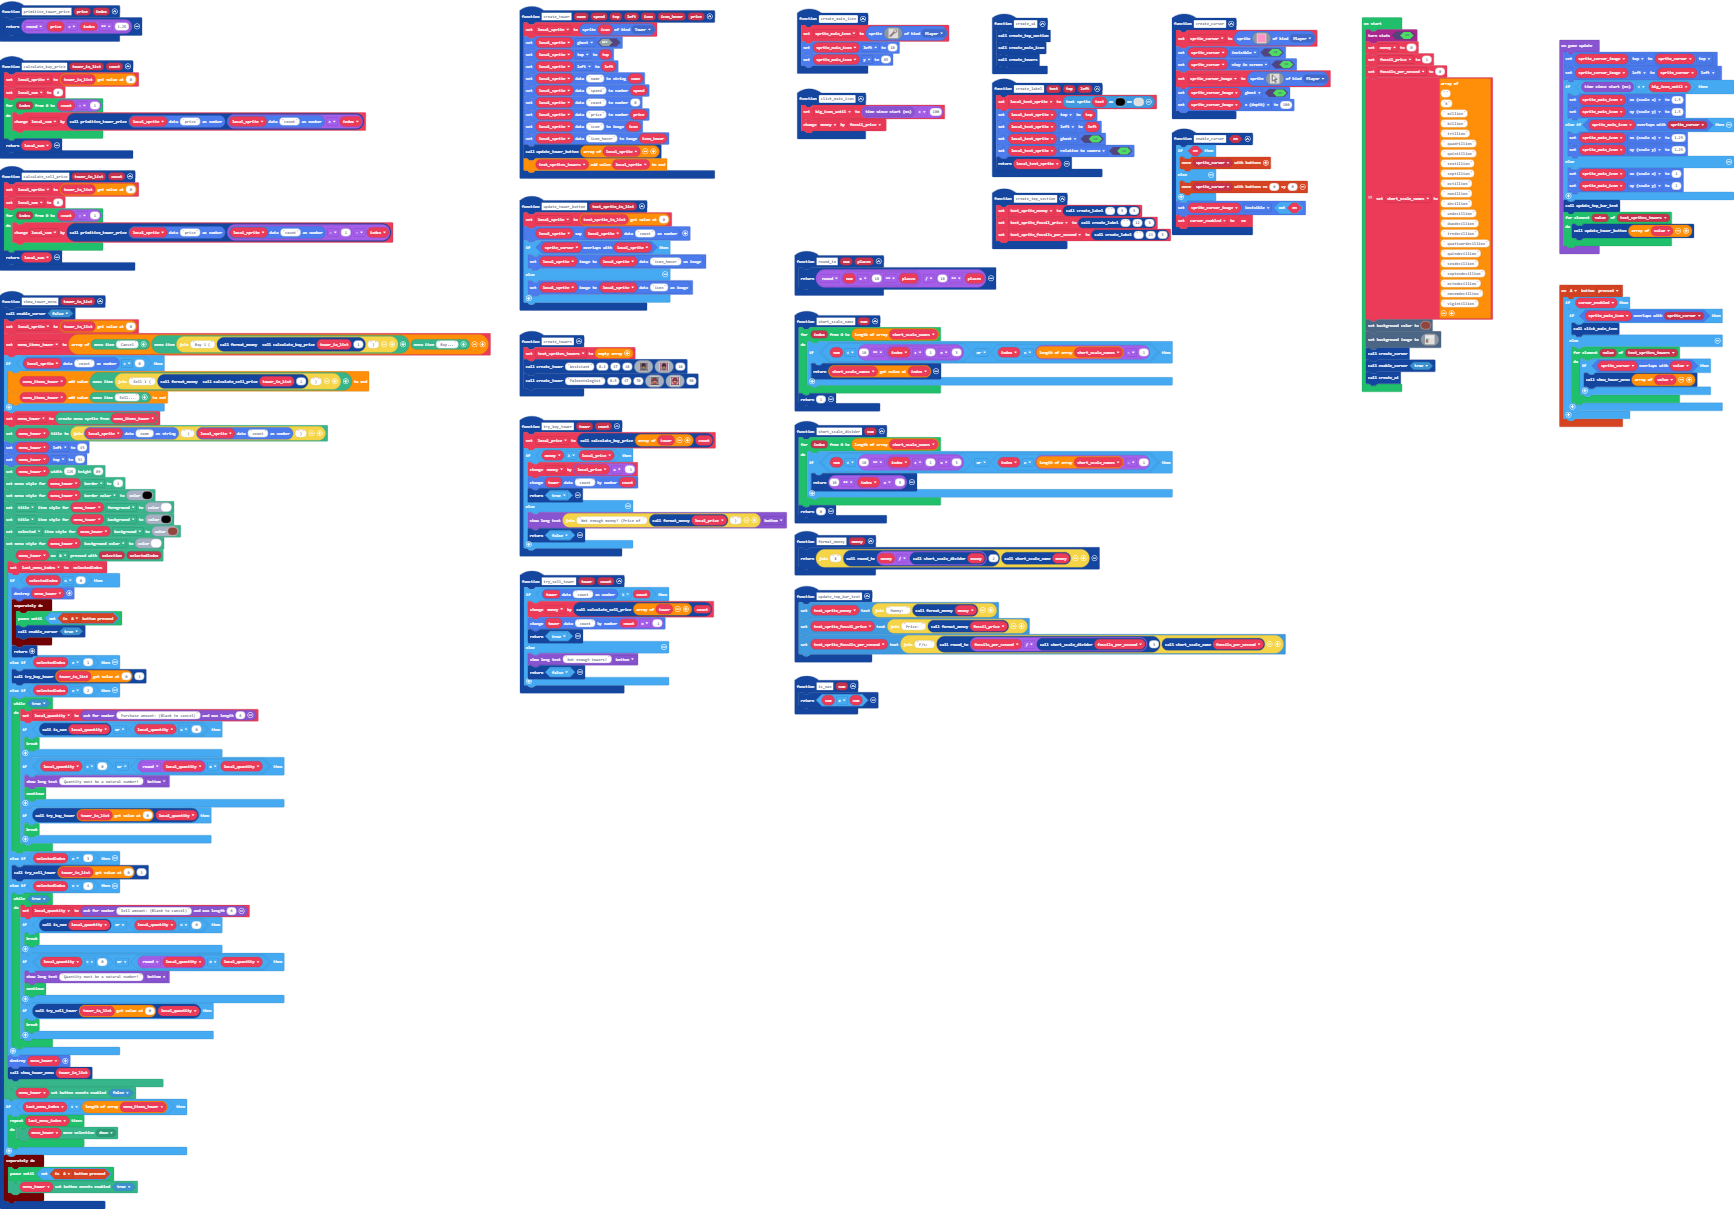
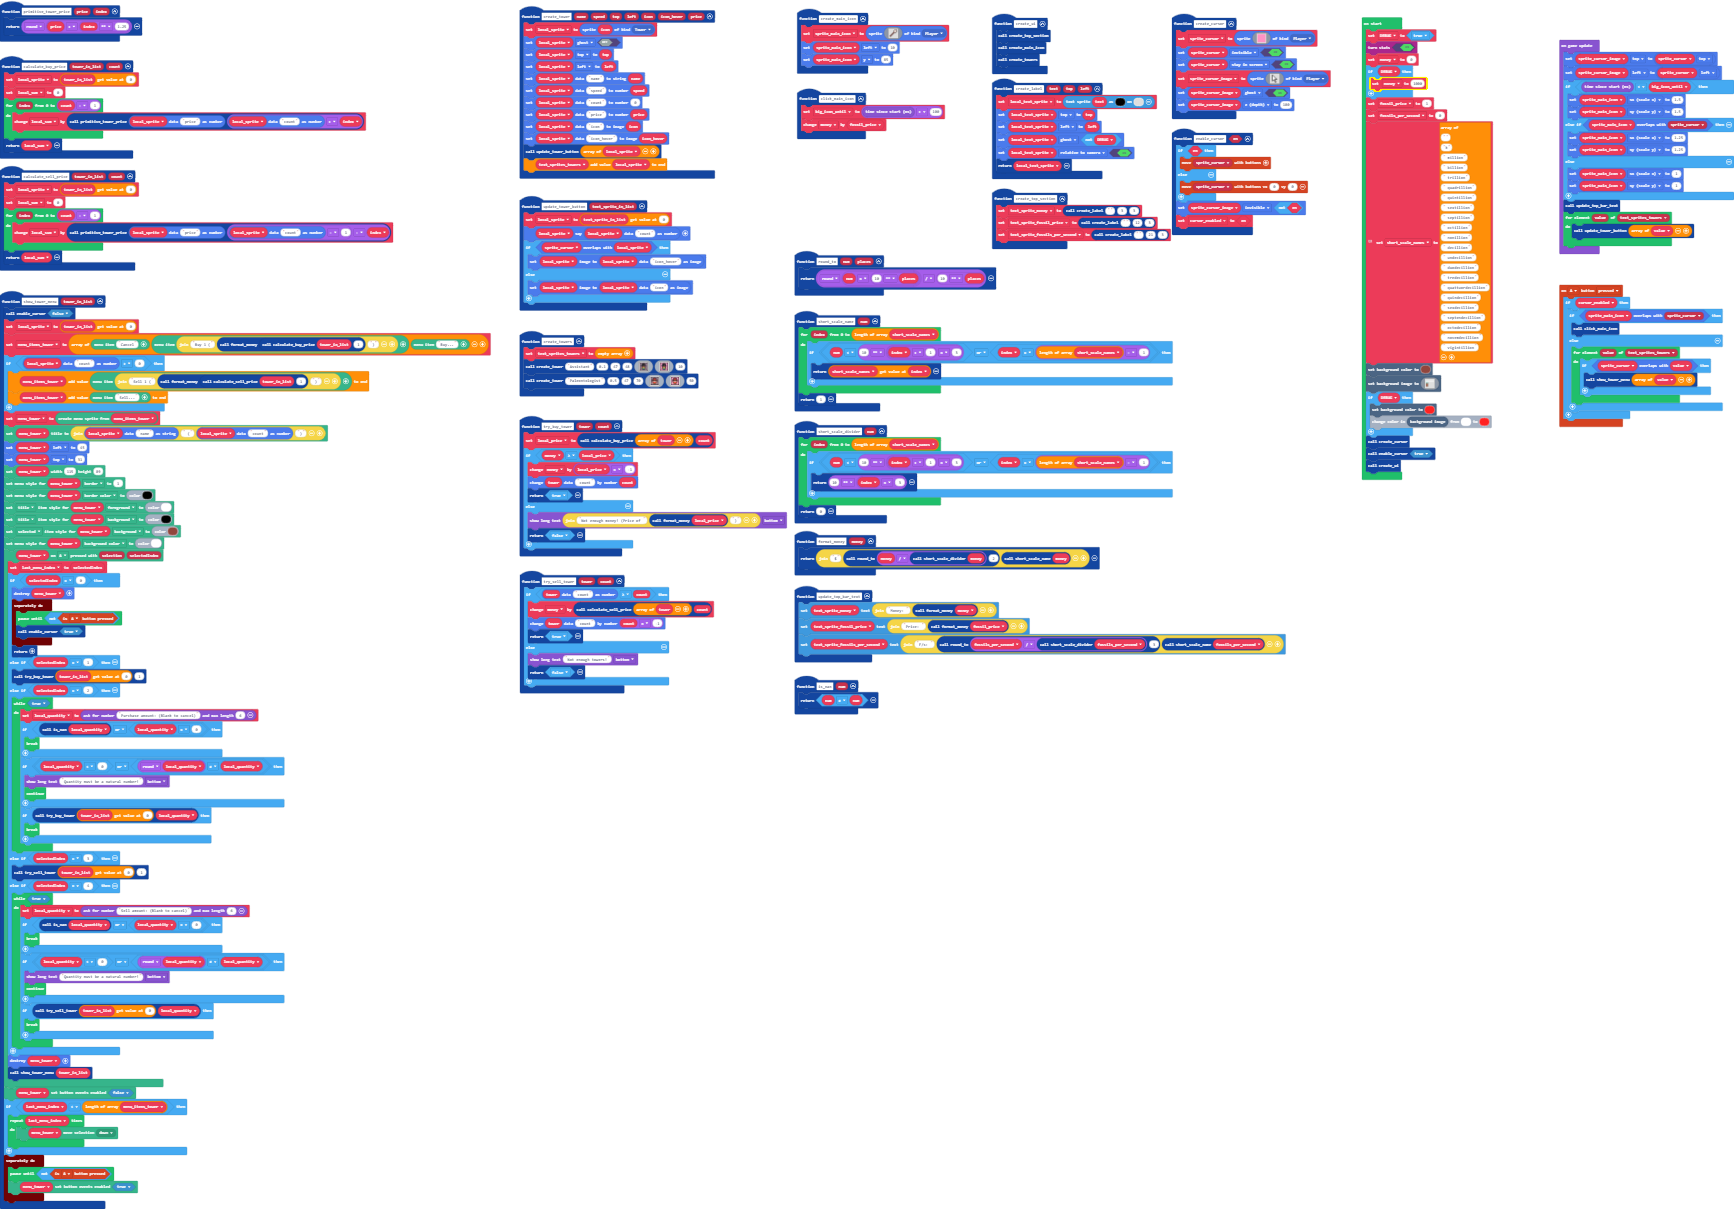
Debug mode

Changed region(s): [[0.7785, 0.0, 0.872, 0.3978], [0.5606, 0.0918, 0.654, 0.153]]

diff --git a/main.ts b/main.ts
@@ -18,7 +18,7 @@ function create_label (text: string, top: number, left: number) {
     local_text_sprite = textsprite.create(text, 0, 15)
     local_text_sprite.top = top
     local_text_sprite.left = left
-    local_text_sprite.setFlag(SpriteFlag.Ghost, true)
+    local_text_sprite.setFlag(SpriteFlag.Ghost, !(DEBUG))
     local_text_sprite.setFlag(SpriteFlag.RelativeToCamera, true)
     return local_text_sprite
 }
@@ -252,8 +252,13 @@ let short_scale_names: string[] = []
 let fossils_per_second = 0
 let fossil_price = 0
 let money = 0
+let DEBUG = false
+DEBUG = true
 stats.turnStats(true)
 money = 0
+if (DEBUG) {
+    money = 1000
+}
 fossil_price = 1
 fossils_per_second = 0
 // https://en.wikipedia.org/wiki/Long_and_short_scales
@@ -284,6 +289,10 @@ short_scale_names = [
 ]
 scene.setBackgroundColor(14)
 scene.setBackgroundImage(assets.image`background`)
+if (DEBUG) {
+    scene.setBackgroundColor(2)
+    scene.backgroundImage().replace(1, 2)
+}
 create_cursor()
 enable_cursor(true)
 create_ui()
